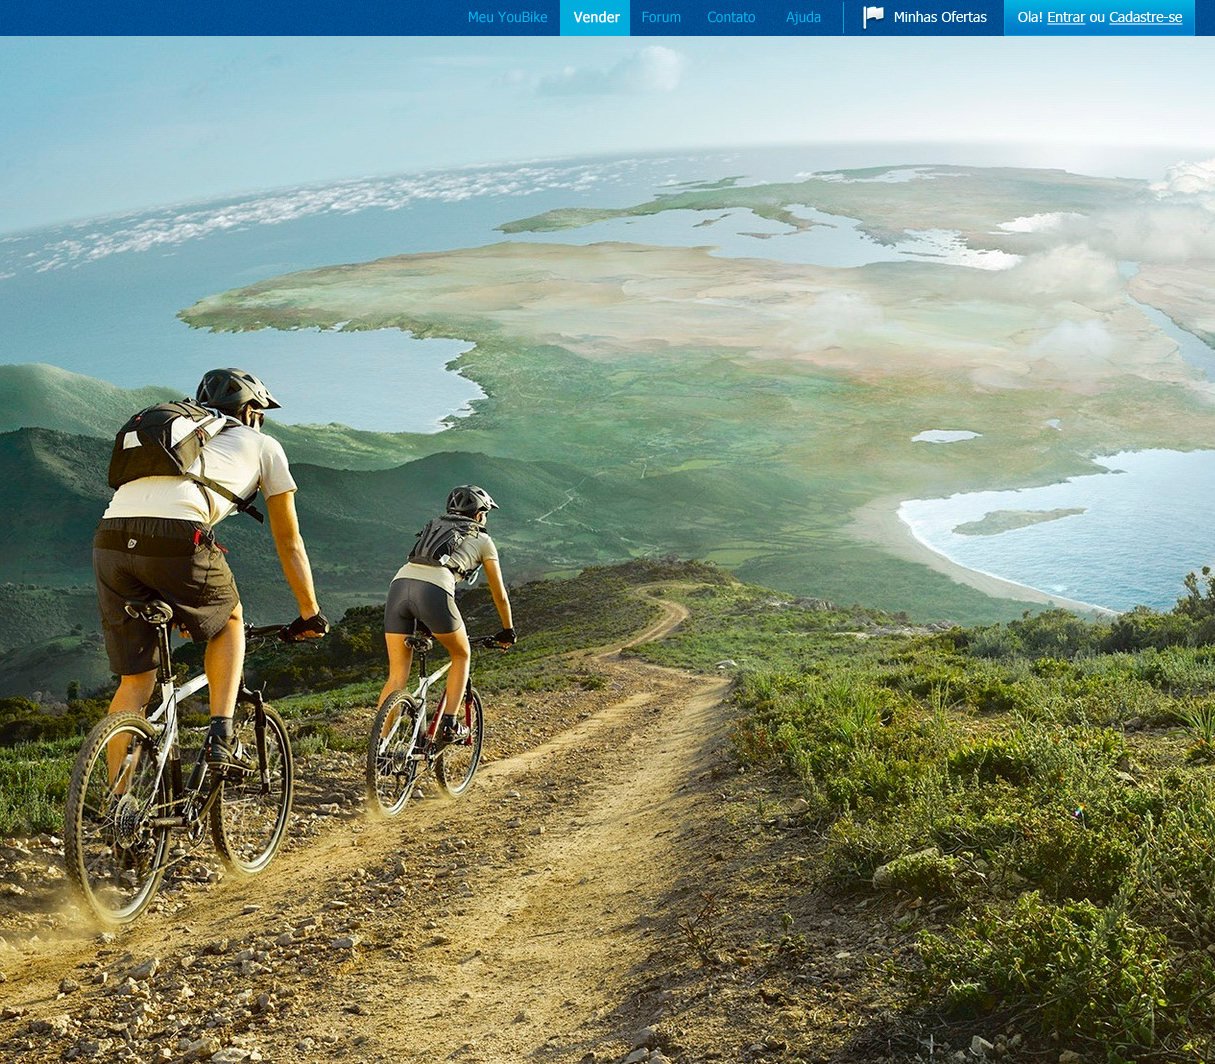
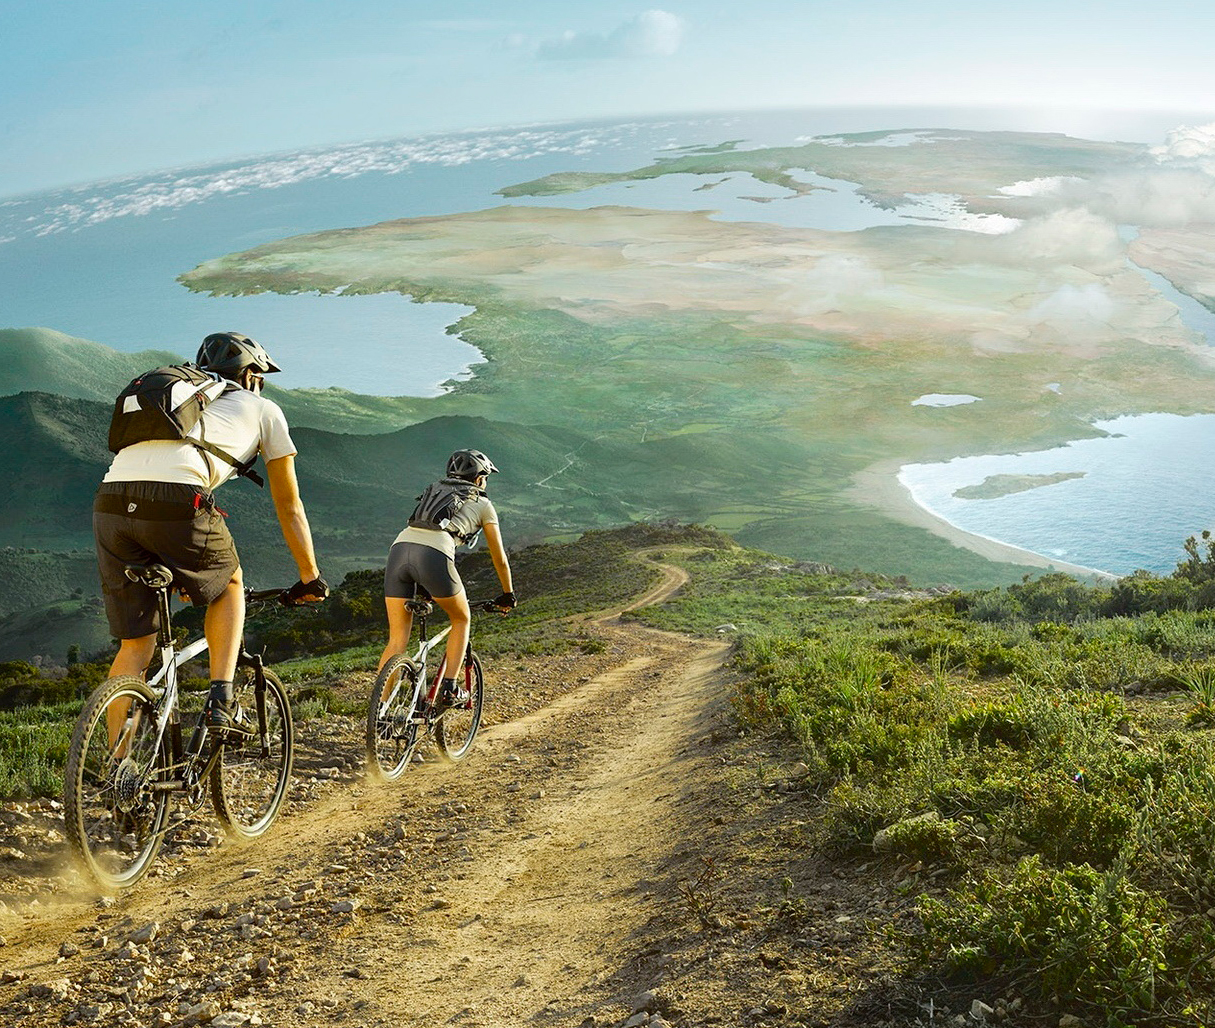
add head menu

diff --git a/css/style.css b/css/style.css
@@ -7,9 +7,68 @@
 
 body {
     background: url("../img/background.jpg") no-repeat center top;
+    margin-bottom: 36px;
 }
 
 input{font-family: HelveticaNeuecyr}
+
+.HeadMenu{
+    width: 1215px;
+    margin: 0 auto;
+    height: 36px;
+    background-color: #074d8a;
+}
+
+.navbar1, .navbar1 ul, .navbar2, .navbar2 ul{
+    list-style-type: none;
+}
+.navbar1{
+    padding-left: 355px;
+}
+
+.navbar1 li, .navbar2 li{
+    float: left;
+    position: relative;
+    height: 100%;
+}
+.navbar1 li a, .navbar2 li a {
+    display: block;
+    line-height: 36px;
+
+    text-decoration: none;
+    text-align: center;
+    font-family: HelveticaNeuecyr;
+    font-size: 16px;
+}
+.navbar1 li a{
+    width: 95px;
+    color: #4eabda;
+}
+.navbar2 li a{
+    width: 190px;
+    color: white;
+}
+.navbar1 li:hover {
+    background-color: #4eabda;
+}
+.navbar2 li:hover {
+    background: linear-gradient(to top, #2e7ac4, #50afdc);
+}
+
+
+
+.navbar1 li a:hover, .navbar2 li a:hover {
+    color: white;
+}
+
+.navbar2{
+    display: inline-block;
+    border-left: 2px solid #4eabda;
+}
+.flag{
+    background: url("img/flag.png") no-repeat;
+    background-position: 5% 50%;
+}
 
 .ramka{
     width: 560px;
@@ -99,6 +158,7 @@ input{font-family: HelveticaNeuecyr}
     width: 150px;
     margin-top: 15px;
     margin-bottom: 15px;
+    color: white;
 }
 .CreateAccount:hover {
     background:-webkit-gradient(linear, left top, left bottom, color-stop(0.05, #019ad2), color-stop(1, #33bdef));

diff --git a/index.html b/index.html
@@ -7,6 +7,21 @@
     <link rel="stylesheet" href="css/style.css">
 </head>
 <body>
+<div class="HeadMenu">
+        <ul class="navbar1">
+            <li><a href="#">Meu YouBike</a></li>
+            <li><a href="#">Vender</a></li>
+            <li><a href="#">Forum</a></li>
+            <li><a href="#">Contato</a></li>
+            <li><a href="#">Ajuda</a></li>
+        </ul>
+        <ul class="navbar2">
+            <li><a class="flag" href="#">Minhas Ofertas</a></li>
+            <li><a href="#">Ola! Entrar ou Cadastre-se</a></li>
+        </ul>
+</div>
+
+
 <div class="ramka">
     <div class="head">
         <p>Cadastre-se</p>
